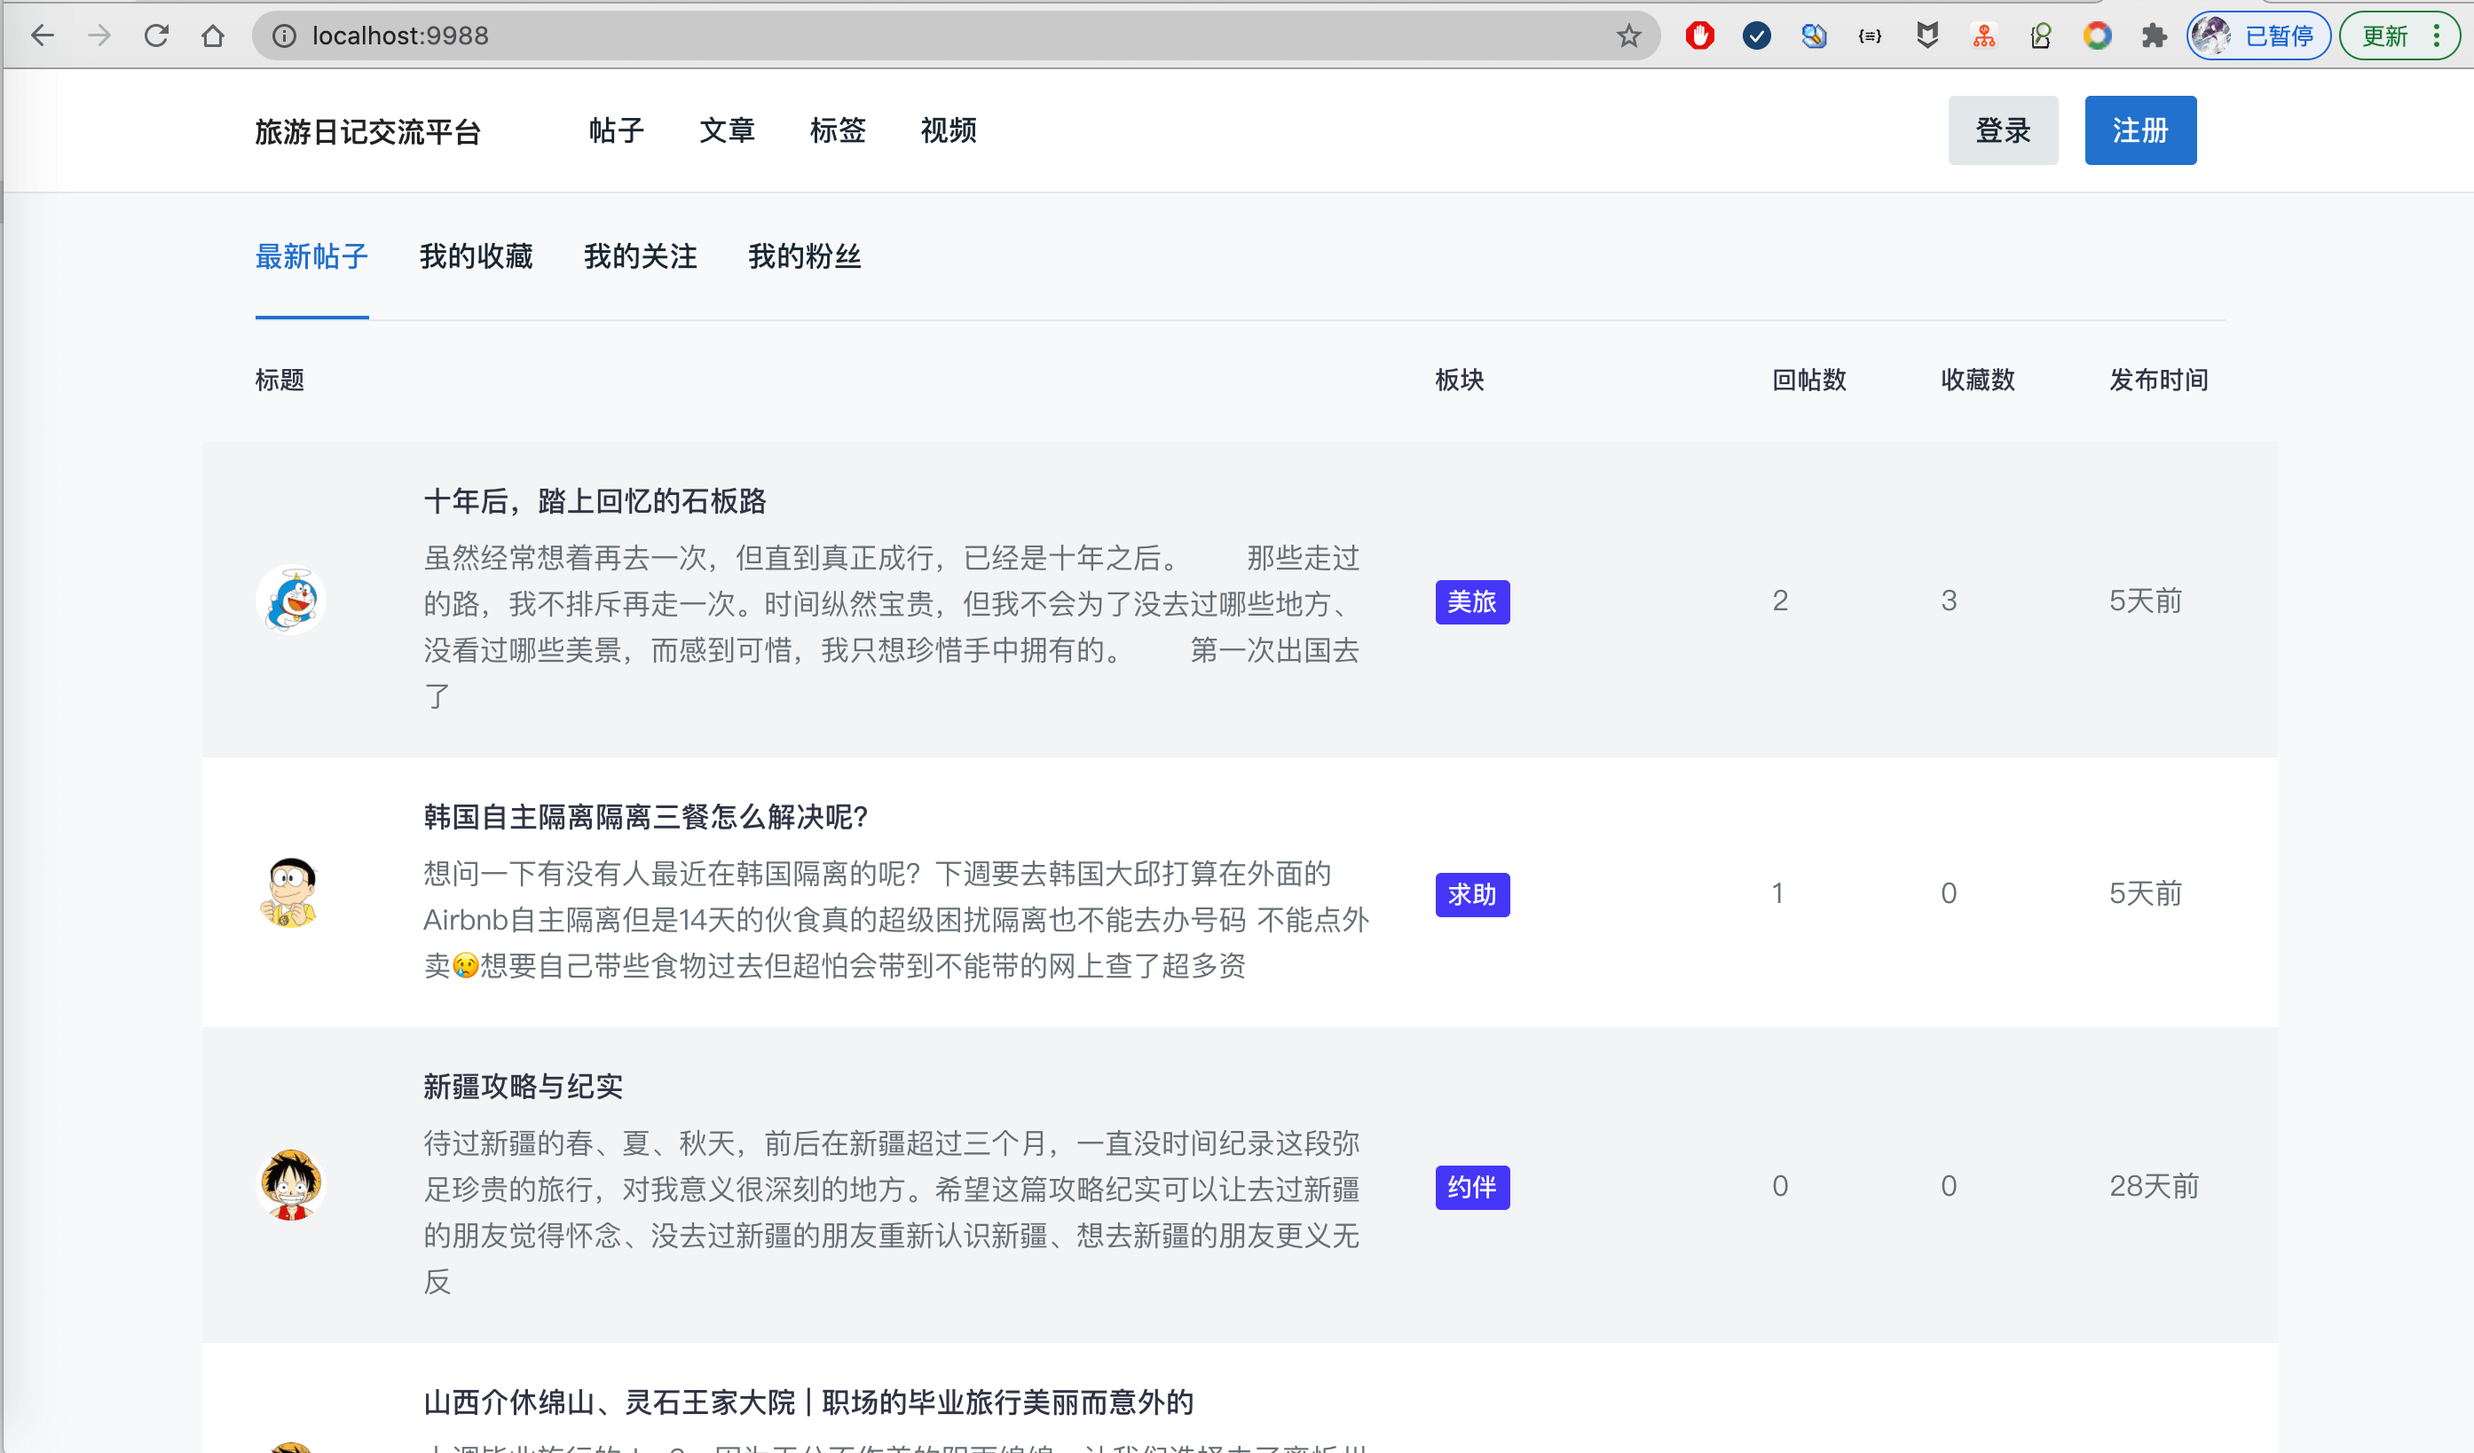
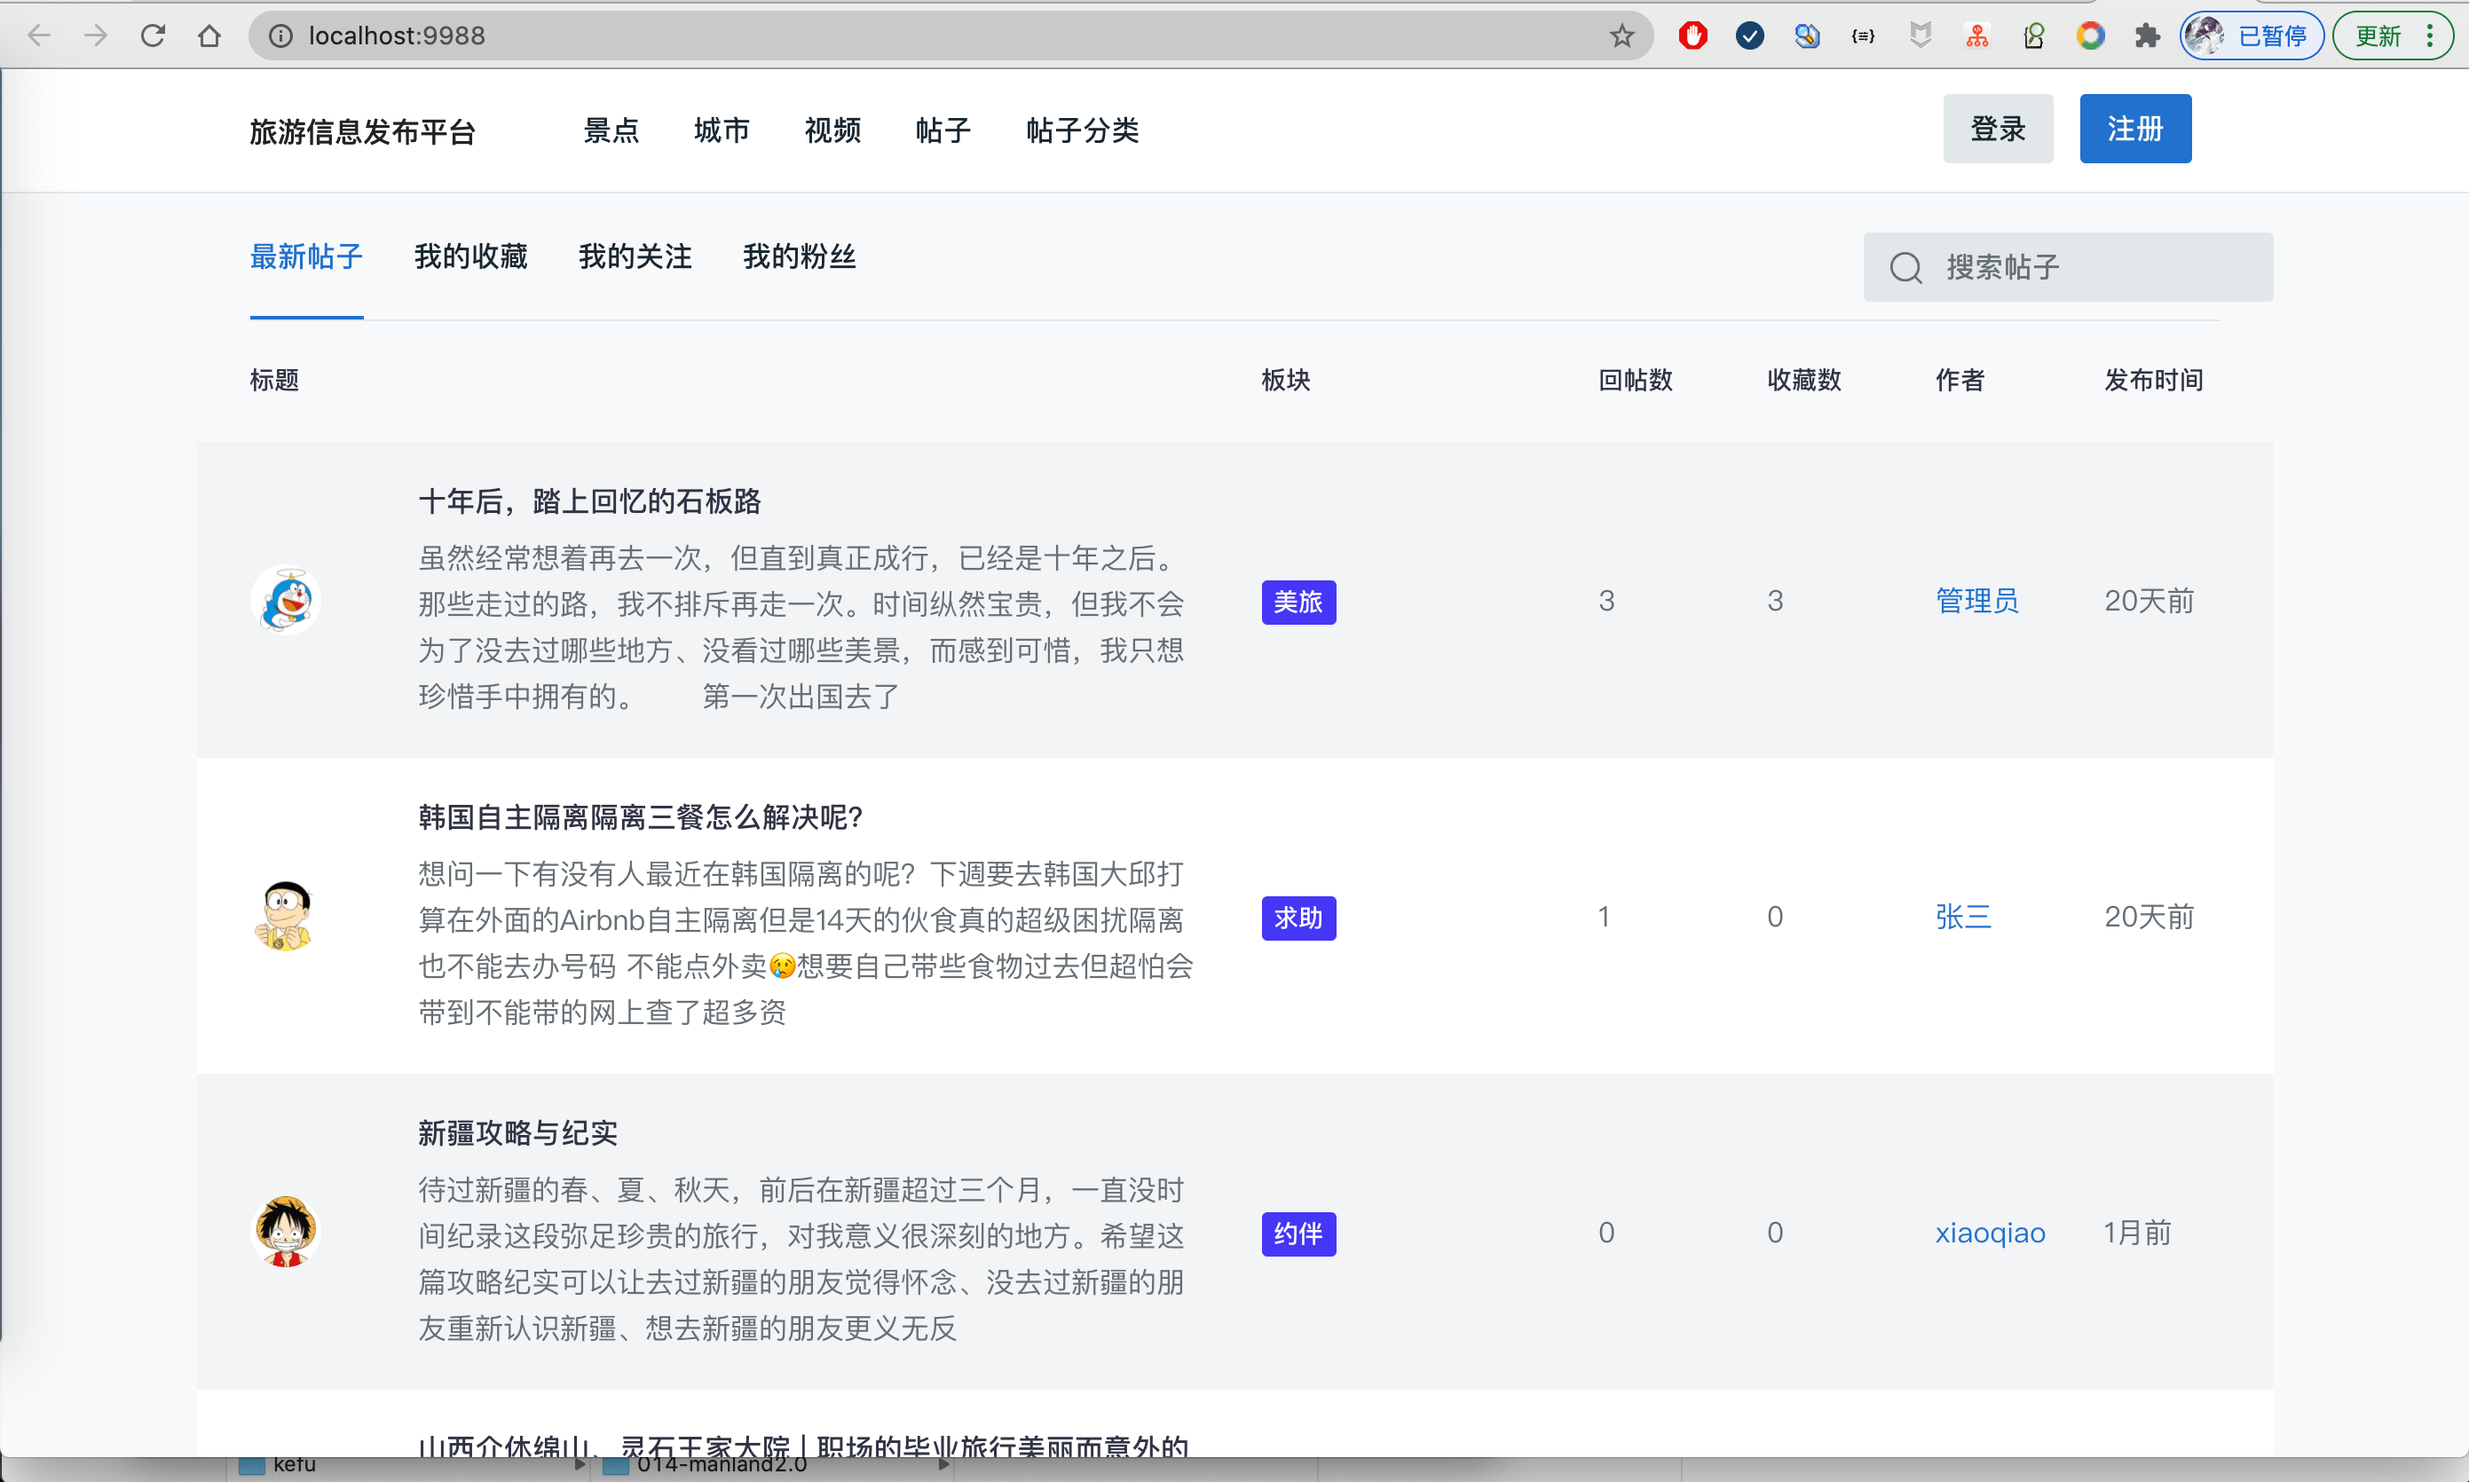
update

diff --git a/README.md b/README.md
@@ -1,5 +1,5 @@
 - 基于SpringBoot的旅游交流论坛
-- 预览地址：暂未部署到服务器，预计最近会部署上去
+- 预览地址：[http://travel.liuyanzhao.com](http://travel.liuyanzhao.com)
 - 详细介绍地址：[https://liuyanzhao.com/shop/TravelForum.html](https://liuyanzhao.com/shop/TravelForum.html)
 
 - 新录制了讲解视频，如下图
@@ -7,27 +7,26 @@
 
 ## 一、功能介绍
 - 包括管理员、用户两种角色
+![1-首页.png](img/旅游信息发布平台.png)
+
 #### 用户功能如下
-1. 文章管理
-2. 文章评论管理
-3. 帖子管理
-4. 帖子回帖管理
-5. 帖子回帖评论管理
-6. 个人信息管理、密码修改
-7. 视频管理
-8. 帖子查看，我的收藏，我的关注，我的粉丝，用户主页......
+- 帖子管理
+- 回帖管理
+- 收藏管理
+- 关注、粉丝管理
+- 照片管理
+- 视频管理
+- 个人信息
 
 #### 管理员功能如下
-1. 所有文章管理
-2. 所有文章评论管理
-3. 所有帖子管理
-4. 所有帖子回帖管理
-5. 所有帖子回帖评论管理
-6. 视频管理
-7. 分类管理(文章分类和帖子分类)
-8. 用户管理
-9. 角色管理和权限管理
-10. 以及用户的所有权限
+拥有用户的所有权限，用户只能查询自己的数据，管理员可以看全量的数据，除此之外还有以下功能
+- 景点信息管理
+- 城市信息管理
+- 帖子分类管理
+- 用户管理
+- 角色管理
+- 权限管理
+- 以及其他所有帖子、回帖、照片、视频管理
 
 ## 二、技术组成
 - 1、SpringBoot
@@ -40,54 +39,60 @@
 ## 三、项目截图
 1-首页.png
 ![1-首页.png](img/1-首页.png)
-2-帖子详情.png
-![2-帖子详情.png](img/2-帖子详情.png)
-3-回帖列表.png
-![3-回帖列表.png](img/3-回帖列表.png)
-4-登录功能.png
-![4-登录功能.png](img/4-登录功能.png)
-5-文章列表.png
-![5-文章列表.png](img/5-文章列表.png)
-6-标签列表.png
-![6-标签列表.png](img/6-标签列表.png)
-7-视频列表.png
-![7-视频列表.png](img/7-视频列表.png)
-8-文章详情.png
-![8-文章详情.png](img/8-文章详情.png)
-9-视频详情.png
-![9-视频详情.png](img/9-视频详情.png)
-10-用户后台-文章列表.png
-![10-用户后台-文章列表.png](img/10-用户后台-文章列表.png)
-11-用户后台-视频列表.png
-![11-用户后台-视频列表.png](img/11-用户后台-视频列表.png)
-12-用户后台-帖子列表.png
-![12-用户后台-帖子列表.png](img/12-用户后台-帖子列表.png)
-13-用户后台-评论列表.png
-![13-用户后台-评论列表.png](img/13-用户后台-评论列表.png)
-14-用户后台-评论列表.png
-![14-用户后台-评论列表.png](img/14-用户后台-评论列表.png)
-15-用户后台-文章编辑.png
-![15-用户后台-文章编辑.png](img/15-用户后台-文章编辑.png)
-16-用户后台-视频编辑.png
-![16-用户后台-视频编辑.png](img/16-用户后台-视频编辑.png)
-17-用户后台-个人资料.png
-![17-用户后台-个人资料.png](img/17-用户后台-个人资料.png)
-18-管理员后台-文章列表.png
-![18-管理员后台-文章列表.png](img/18-管理员后台-文章列表.png)
-19-管理员后台-文章分类.png
-![19-管理员后台-文章分类.png](img/19-管理员后台-文章分类.png)
-20-管理员后台-视频列表.png
-![20-管理员后台-视频列表.png](img/20-管理员后台-视频列表.png)
-21-管理员后台-帖子列表.png
-![21-管理员后台-帖子列表.png](img/21-管理员后台-帖子列表.png)
-22-管理员后台-帖子分类.png
-![22-管理员后台-帖子分类.png](img/22-管理员后台-帖子分类.png)
-23-管理员后台-评论列表.png
-![23-管理员后台-评论列表.png](img/23-管理员后台-评论列表.png)
-24-管咯有后台-回帖列表.png
-![24-管咯有后台-回帖列表.png](img/24-管咯有后台-回帖列表.png)
-25-管理员后台-用户列表.png
-![25-管理员后台-用户列表.png](img/25-管理员后台-用户列表.png)
+2-登录.png
+![2-登录.png](img/2-登录.png)
+3-我的收藏.png
+![3-我的收藏.png](img/3-我的收藏.png)
+4-我的关注.png
+![4-我的关注.png](img/4-我的关注.png)
+5-我的粉丝.png
+![5-我的粉丝.png](img/5-我的粉丝.png)
+6-景点列表.png
+![6-景点列表.png](img/6-景点列表.png)
+7-城市列表.png
+![7-城市列表.png](img/7-城市列表.png)
+8-视频列表.png
+![8-视频列表.png](img/8-视频列表.png)
+9-分类列表.png
+![9-分类列表.png](img/9-分类列表.png)
+10-帖子详情.png
+![10-帖子详情.png](img/10-帖子详情.png)
+11-回帖功能.png
+![11-回帖功能.png](img/11-回帖功能.png)
+12-视频详情.png
+![12-视频详情.png](img/12-视频详情.png)
+13-景点详情.png
+![13-景点详情.png](img/13-景点详情.png)
+14-帖子列表.png
+![14-帖子列表.png](img/14-帖子列表.png)
+15-帖子发布编辑页面.png
+![15-帖子发布编辑页面.png](img/15-帖子发布编辑页面.png)
+16-回帖管理.png
+![16-回帖管理.png](img/16-回帖管理.png)
+17-视频管理.png
+![17-视频管理.png](img/17-视频管理.png)
+18-图片管理.png
+![18-图片管理.png](img/18-图片管理.png)
+19-景点管理.png
+![19-景点管理.png](img/19-景点管理.png)
+20-城市信息管理.png
+![20-城市信息管理.png](img/20-城市信息管理.png)
+21-所有帖子管理.png
+![21-所有帖子管理.png](img/21-所有帖子管理.png)
+22-分类管理.png
+![22-分类管理.png](img/22-分类管理.png)
+23-所有照片.png
+![23-所有照片.png](img/23-所有照片.png)
+24-照片详情.png
+![24-照片详情.png](img/24-照片详情.png)
+25-用户管理.png
+![25-用户管理.png](img/25-用户管理.png)
+26-角色管理.png
+![26-角色管理.png](img/26-角色管理.png)
+27-权限管理.png
+![27-权限管理.png](img/27-权限管理.png)
+28-个人信息.png
+![28-个人信息.png](img/28-个人信息.png)
 
 
 ## 四、联系方式
